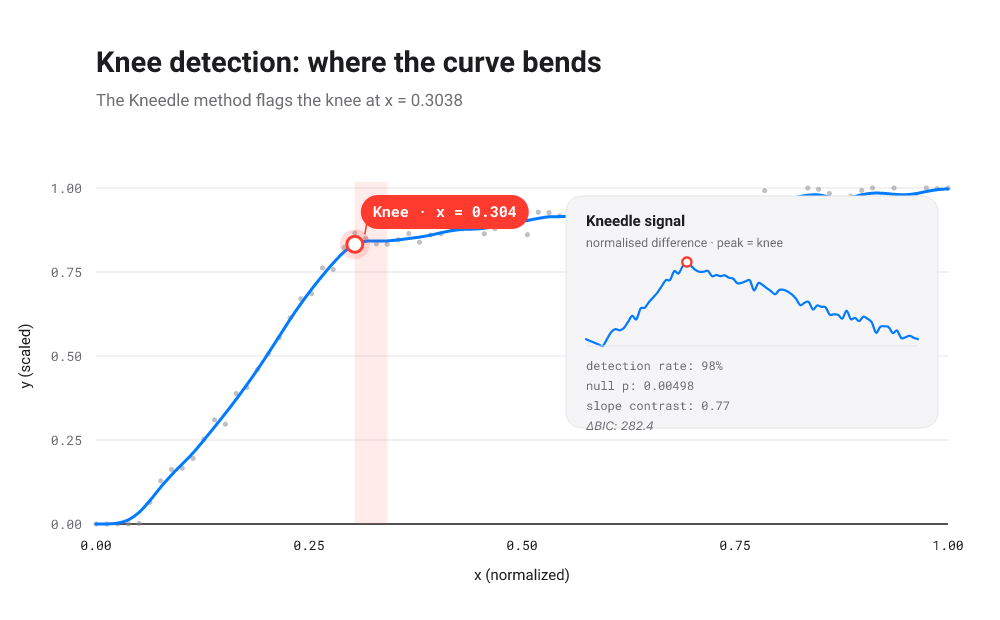
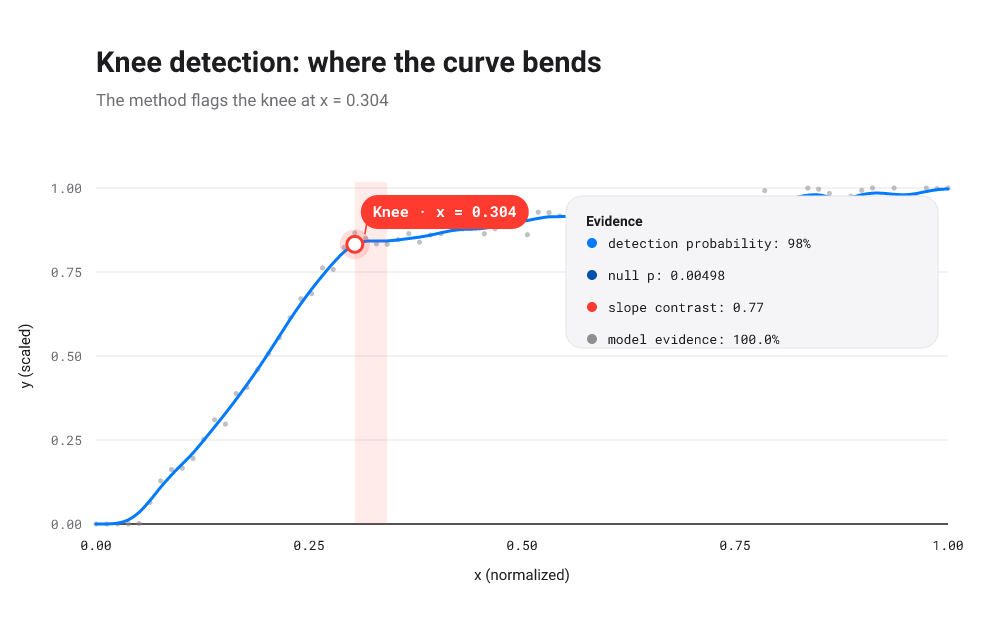
Diagnostic figure: replace Kneedle-inset chart with a compact evidence legend
- Drop the difference-curve mini-chart; show detection probability, null p,
  slope contrast, and BIC evidence as a plain labelled legend instead.
- BIC evidence is now a bounded posterior model probability (Kass & Raftery
  1995 Bayes-factor approximation), not a raw, unbounded delta-BIC in nats —
  a number like '99.9%' means the same thing regardless of curve length or
  noise scale, where '282.4' did not. ClearKnee.bic_improvement itself is
  unchanged (still raw nats, same public API field); only the figure and its
  prose changed.
- Minor wording: 'the Kneedle method' -> 'the method' in the figure subtitle,
  'detection rate' -> 'detection probability' throughout.
- Fixed a resvg font-fallback quirk where the Δ glyph rendered in an
  unintended italic face; renamed the BIC row label to avoid it entirely.

diff --git a/src/elbow_helper/plotting.py b/src/elbow_helper/plotting.py
@@ -13,9 +13,9 @@ arrays and the :class:`~elbow_helper.pipeline.ClearKnee` /
 only runtime dependencies stay ``numpy`` and ``os-helper``.
 
 The figure never shows a bare point estimate: the knee is paired with its
-90% bootstrap interval, the Kneedle difference curve that found it, and the
-supporting evidence (detection rate, null-model p-value, slope contrast,
-BIC improvement). When the evidence is too weak, the figure says so plainly
+90% bootstrap interval and the supporting evidence (detection probability,
+null-model p-value, slope contrast, and a BIC-derived posterior model
+probability) in a compact legend. When the evidence is too weak, the figure says so plainly
 — a greyed, dashed curve and a reason — instead of drawing a marker that
 implies more confidence than the data supports.
 
@@ -26,6 +26,7 @@ Warith Harchaoui, <warith.harchaoui@deraison.ai>
 
 from __future__ import annotations
 
+import math
 from pathlib import Path
 from typing import List, Optional, Sequence, Tuple
 from xml.sax.saxutils import escape
@@ -34,7 +35,6 @@ import numpy as np
 import os_helper as oh
 
 from .config import RobustKneeConfig
-from .kneedle import KneeLocator
 from .pipeline import ClearKnee, robust_knee
 from .preprocessing import Abstain, prepare_curve
 from .smoothing import smooth_curve
@@ -65,17 +65,16 @@ _FONT_MONO = "Roboto Mono, ui-monospace, SFMono-Regular, monospace"
 _STRINGS = {
     "en": {
         "title_clear": "Knee detection: where the curve bends",
-        "subtitle_clear": "The Kneedle method flags the knee at x = {x}",
+        "subtitle_clear": "The method flags the knee at x = {x}",
         "title_abstain": "No clear knee",
         "hint_abstain": "The evidence was too weak to report a point estimate.",
         "reason": "reason",
         "knee_pill": "Knee",
-        "inset_title": "Kneedle signal",
-        "inset_subtitle": "normalised difference · peak = knee",
-        "detection_rate": "detection rate",
+        "inset_title": "Evidence",
+        "detection_rate": "detection probability",
         "null_p": "null p",
         "slope_contrast": "slope contrast",
-        "bic": "ΔBIC",
+        "bic": "model evidence",
         "x_axis": "x (normalized)",
         "y_axis": "y (scaled)",
         "data_label": "data",
@@ -83,17 +82,16 @@ _STRINGS = {
     },
     "fr": {
         "title_clear": "Détection de coude : où la courbe plie",
-        "subtitle_clear": "La méthode Kneedle situe le coude à x = {x}",
+        "subtitle_clear": "La méthode situe le coude à x = {x}",
         "title_abstain": "Aucun coude net",
         "hint_abstain": "L'évidence était trop faible pour une estimation ponctuelle.",
         "reason": "raison",
         "knee_pill": "Coude",
-        "inset_title": "Signal Kneedle",
-        "inset_subtitle": "différence normalisée · pic = coude",
-        "detection_rate": "taux de détection",
+        "inset_title": "Preuves",
+        "detection_rate": "probabilité de détection",
         "null_p": "p (nul)",
         "slope_contrast": "contraste de pente",
-        "bic": "ΔBIC",
+        "bic": "évidence du modèle",
         "x_axis": "x (normalisé)",
         "y_axis": "y (mis à l'échelle)",
         "data_label": "données",
@@ -162,6 +160,57 @@ def _sy(y: float) -> float:
     return _PB - y * _PLOT_H
 
 
+def _bic_posterior_probability(bic_improvement: float) -> float:
+    """Convert a raw ΔBIC (nats) into a bounded, interpretable posterior probability.
+
+    ``bic_improvement`` is already ``n * ln(RSS_single/n) - n * ln(RSS_broken/n)
+    + k_diff * ln(n)`` (see :func:`elbow_helper.numerics.bic`) — the sample size
+    ``n`` and the extra-parameter penalty are already inside it, so dividing by
+    an arbitrary log base (10, 2, ...) would just rescale an already-composite,
+    unbounded number without fixing the real problem: a raw ΔBIC has no natural
+    ceiling, so "282.4" on its own says nothing about how much evidence that
+    actually is.
+
+    What does have a natural ceiling is the quantity ΔBIC approximates: twice
+    the log Bayes factor between the broken-line and single-line models
+    (Kass & Raftery, 1995, eq. 4 — the same approximation this project's
+    ``min_bic_improvement`` gate is calibrated against, see ``MATH-en.tex``
+    section 14). That gives an approximate Bayes factor
+    ``BF ≈ exp(bic_improvement / 2)`` — literally a likelihood ratio, since BIC
+    is built from ``-2 ln(L)`` — and, under equal priors, a posterior model
+    probability ``BF / (1 + BF)``, which is exactly the logistic/sigmoid of
+    ``bic_improvement / 2``. A probability is bounded in ``[0, 1]`` (maximum
+    entropy ``ln(2)`` nats at ``p = 0.5``, the point of total uncertainty
+    between the two models), so it reads the same way regardless of curve
+    length or noise scale: "99.9%" is unambiguous where "282.4" is not.
+
+    Parameters
+    ----------
+    bic_improvement : float
+        ``ClearKnee.bic_improvement``, in natural-log nats (``bic_single -
+        bic_broken``; positive favours the knee model).
+
+    Returns
+    -------
+    float
+        The approximate posterior probability, under equal priors, that the
+        broken-line (knee) model is correct, in ``[0, 1]``.
+
+    Examples
+    --------
+    >>> round(_bic_posterior_probability(0.0), 3)
+    0.5
+    >>> _bic_posterior_probability(20.0) > 0.999
+    True
+    """
+    # exp() overflows for very large bic_improvement; clip the odds' log
+    # rather than the probability so the result still saturates smoothly
+    # at 1.0 instead of raising OverflowError.
+    log_odds = min(bic_improvement / 2.0, 700.0)
+    odds = math.exp(log_odds)
+    return odds / (1.0 + odds)
+
+
 def render_svg(
     x,
     y=None,
@@ -188,7 +237,7 @@ def render_svg(
     -------
     str
         A complete SVG document: the curve with its knee (or an honest
-        abstention state) and the Kneedle evidence that produced it.
+        abstention state) and the evidence that backs it.
     """
     strings = _strings(language)
     config = config or RobustKneeConfig()
@@ -209,7 +258,7 @@ def render_svg(
     p: List[str] = []
     if isinstance(result, ClearKnee) and prepared is not None:
         title_txt = strings["title_clear"]
-        subtitle_txt = strings["subtitle_clear"].format(x=f"{result.knee_x:.4g}")
+        subtitle_txt = strings["subtitle_clear"].format(x=f"{result.knee_x:.3g}")
     else:
         title_txt = strings["title_abstain"]
         reason = getattr(result, "reason", "unknown")
@@ -325,7 +374,7 @@ def render_svg(
             f'font-family="{_FONT_MONO}" font-size="15" font-weight="700" '
             f'fill="{_BG}">{escape(call_txt)}</text>'
         )
-        _emit_inset(p, prepared, result, inferred_curve, inferred_direction, strings)
+        _emit_legend(p, result, strings)
     else:
         _emit_abstain_card(p, strings, getattr(result, "reason", None))
 
@@ -333,77 +382,46 @@ def render_svg(
     return "".join(p)
 
 
-def _emit_inset(
-    p: List[str],
-    prepared,
-    result: "ClearKnee",
-    curve: Optional[str],
-    direction: Optional[str],
-    strings: dict,
-) -> None:
-    """Append the Kneedle-signal inset card: difference curve + evidence lines."""
-    ix, iy, iw, ih = 566.0, 196.0, 372.0, 232.0
+def _emit_legend(p: List[str], result: "ClearKnee", strings: dict) -> None:
+    """Append a compact evidence legend: detection probability, null p, slope contrast, BIC gain.
+
+    A plain labelled-swatch legend rather than a chart-bearing card: each
+    row pairs a small dot (colour-keyed to the main curve/knee hues) with a
+    ``label: value`` line, so the four numbers that back the point estimate
+    read at a glance without a second, chart-within-a-chart panel to parse.
+
+    Parameters
+    ----------
+    p : list of str
+        The SVG fragment list being assembled; extended in place.
+    result : ClearKnee
+        The pipeline result carrying the four evidence values.
+    strings : dict
+        Chrome-text strings for the active language.
+    """
+    lx, ly, lw = 566.0, 196.0, 372.0
+    rows = [
+        (_CURVE, f'{strings["detection_rate"]}: {result.detection_rate:.0%}'),
+        (_CURVE_DEEP, f'{strings["null_p"]}: {result.null_p_value:.3g}'),
+        (_ACCENT, f'{strings["slope_contrast"]}: {result.slope_contrast:.2f}'),
+        (_MUTED, f'{strings["bic"]}: {_bic_posterior_probability(result.bic_improvement):.1%}'),
+    ]
+    row_h = 32.0
+    lh = 24.0 + row_h * len(rows)
     p.append(
-        f'<rect x="{ix:.0f}" y="{iy:.0f}" width="{iw:.0f}" height="{ih:.0f}" '
+        f'<rect x="{lx:.0f}" y="{ly:.0f}" width="{lw:.0f}" height="{lh:.0f}" '
         f'rx="16" fill="#F5F5F7" stroke="{_HAIR}" stroke-width="1"/>'
     )
     p.append(
-        f'<text x="{ix + 20:.0f}" y="{iy + 30:.0f}" font-size="15" '
+        f'<text x="{lx + 20:.0f}" y="{ly + 30:.0f}" font-size="14" '
         f'font-weight="700" fill="{_INK}">{escape(strings["inset_title"])}</text>'
     )
-    p.append(
-        f'<text x="{ix + 20:.0f}" y="{iy + 51:.0f}" font-size="12.5" '
-        f'fill="{_SUBINK}">{escape(strings["inset_subtitle"])}</text>'
-    )
-
-    w = result.smoothing_window
-    smoothed = smooth_curve(prepared.y_scaled, w)
-    kl = KneeLocator(
-        prepared.x_norm, smoothed, S=1.0, curve=curve, direction=direction, online=True,
-    )
-    diff = kl.y_difference
-    mx0, mx1 = ix + 20.0, ix + iw - 20.0
-    my0, my1 = iy + 66.0, iy + 150.0
-    dmin, dmax = float(np.min(diff)), float(np.max(diff))
-    dspan = (dmax - dmin) or 1.0
-
-    def msx(i: int) -> float:
-        return mx0 + i / (len(diff) - 1) * (mx1 - mx0)
-
-    def msy(v: float) -> float:
-        return my1 - (v - dmin) / dspan * (my1 - my0)
-
-    mpts = [(msx(i), msy(float(v))) for i, v in enumerate(diff)]
-    ln = [f'M{_fmt(mpts[0][0])},{_fmt(mpts[0][1])}']
-    ln.append(_catmull_rom(mpts))
-    p.append(
-        f'<path d="{"".join(ln)}" fill="none" stroke="{_CURVE}" '
-        f'stroke-width="2.2" stroke-linecap="round"/>'
-    )
-    p.append(
-        f'<line x1="{mx0:.1f}" y1="{my1:.1f}" x2="{mx1:.1f}" y2="{my1:.1f}" '
-        f'stroke="{_HAIR}" stroke-width="1"/>'
-    )
-    if kl.maxima_indices.size:
-        peak_i = int(kl.maxima_indices[np.argmax(kl.y_difference[kl.maxima_indices])])
-        peak_x, peak_y = mpts[peak_i]
+    for i, (colour, line) in enumerate(rows):
+        row_y = ly + 52 + i * row_h
+        p.append(f'<circle cx="{lx + 26:.1f}" cy="{row_y - 5:.1f}" r="5" fill="{colour}"/>')
         p.append(
-            f'<circle cx="{peak_x:.1f}" cy="{peak_y:.1f}" r="4.6" fill="{_BG}" '
-            f'stroke="{_ACCENT}" stroke-width="2.4"/>'
-        )
-
-    # Evidence lines: detection rate, null p-value, slope contrast, BIC.
-    lines = [
-        f'{strings["detection_rate"]}: {result.detection_rate:.0%}',
-        f'{strings["null_p"]}: {result.null_p_value:.3g}',
-        f'{strings["slope_contrast"]}: {result.slope_contrast:.2f}',
-        f'{strings["bic"]}: {result.bic_improvement:.1f}',
-    ]
-    for i, line in enumerate(lines):
-        p.append(
-            f'<text x="{mx0:.1f}" y="{my1 + 24 + i * 20:.1f}" '
-            f'font-family="{_FONT_MONO}" font-size="12" fill="{_SUBINK}">'
-            f'{escape(line)}</text>'
+            f'<text x="{lx + 42:.1f}" y="{row_y:.1f}" font-family="{_FONT_MONO}" '
+            f'font-size="13" fill="{_INK}">{escape(line)}</text>'
         )
 
 

diff --git a/LISEZ-MOI.md b/LISEZ-MOI.md
@@ -106,9 +106,9 @@ from elbow_helper.plotting import plot_diagnostics
 plot_diagnostics(x, y, curve="concave", direction="increasing", out="diag.svg", language="fr")
 ```
 
-![Figure de diagnostic : une courbe qui monte puis s'aplatit, avec le coude repéré et sa bande de confiance à 90 % en surbrillance, à côté d'un encart montrant la courbe de différence Kneedle qui l'a trouvé, avec le taux de détection, la p-value du modèle nul, le contraste de pente et le ΔBIC en pièces à l'appui.](assets/diagnostics.svg)
+![Figure de diagnostic : une courbe qui monte puis s'aplatit, avec le coude repéré et sa bande de confiance à 90 % en surbrillance, à côté d'une légende compacte avec la probabilité de détection, la p-value du modèle nul, le contraste de pente et une probabilité a posteriori dérivée du BIC.](assets/diagnostics.svg)
 
-Le SVG est écrit à la main, sans matplotlib et sans rien à installer en plus : le diagnostic fait partie du cœur du paquet. La courbe et son coude repéré voisinent avec la courbe de différence Kneedle qui l'a localisé, si bien qu'on voit la méthode autant que le résultat, à côté du taux de détection, de la p-value du modèle nul, du contraste de pente et de l'amélioration du BIC qui étayent l'estimation. Quand les preuves sont trop faibles, la figure bascule dans un état d'abstention honnête plutôt que d'afficher un résultat trompeur : une courbe grisée en pointillés et la raison, jamais un marqueur qui laisserait croire à plus de confiance que les données n'en autorisent.
+Le SVG est écrit à la main, sans matplotlib et sans rien à installer en plus : le diagnostic fait partie du cœur du paquet. La courbe et son coude repéré voisinent avec une légende compacte : la probabilité de détection, la p-value du modèle nul, le contraste de pente et une probabilité a posteriori dérivée du BIC (les chances, sous l'approximation du facteur de Bayes de Kass et Raftery, que le modèle à coude soit le bon) qui étayent l'estimation. Quand les preuves sont trop faibles, la figure bascule dans un état d'abstention honnête plutôt que d'afficher un résultat trompeur : une courbe grisée en pointillés et la raison, jamais un marqueur qui laisserait croire à plus de confiance que les données n'en autorisent.
 
 ## Limites
 

diff --git a/README.md b/README.md
@@ -106,9 +106,9 @@ from elbow_helper.plotting import plot_diagnostics
 plot_diagnostics(x, y, curve="concave", direction="increasing", out="diag.svg")
 ```
 
-![Diagnostic figure: a curve rising then flattening, with the located knee marked and its 90% confidence band shaded, alongside an inset panel showing the Kneedle difference curve that found it, with detection rate, null-model p-value, slope contrast and ΔBIC as supporting evidence.](assets/diagnostics.svg)
+![Diagnostic figure: a curve rising then flattening, with the located knee marked and its 90% confidence band shaded, next to a compact evidence legend with detection probability, null-model p-value, slope contrast and a BIC-derived posterior model probability.](assets/diagnostics.svg)
 
-Hand-authored SVG, no matplotlib, no extra to install: the diagnostic is a core feature. The curve and its located knee sit next to the Kneedle difference curve that found it, so the reader sees the method as well as the result, next to the detection rate, the null-model p-value, the slope contrast and the BIC improvement that back the point estimate. When the evidence is too weak, the figure switches to an honest abstention state instead: a greyed, dashed curve and the reason, never a marker implying more confidence than the data supports. Pass `language="fr"` for the French chrome text.
+Hand-authored SVG, no matplotlib, no extra to install: the diagnostic is a core feature. The curve and its located knee sit next to a compact evidence legend: the detection probability, the null-model p-value, the slope contrast and a BIC-derived posterior probability (the odds, under Kass & Raftery's Bayes-factor approximation, that the knee model is correct) that back the point estimate. When the evidence is too weak, the figure switches to an honest abstention state instead: a greyed, dashed curve and the reason, never a marker implying more confidence than the data supports. Pass `language="fr"` for the French chrome text.
 
 ## Limitations
 

diff --git a/CHANGELOG.md b/CHANGELOG.md
@@ -29,10 +29,17 @@ development.
   **core** feature, nothing extra to install. The new figure shows the curve
   with the located knee and its 90% CI band (or an honest greyed/dashed
   abstention state with the reason, when the evidence is too weak) next to a
-  Kneedle-signal inset with the difference curve and its supporting evidence
-  (detection rate, null-model p-value, slope contrast, ΔBIC). Supports
-  `language="fr"`. `examples/diagnostic_plot.py` and the README/LISEZ-MOI.md
-  Diagnostics sections updated to match, with a real generated figure
+  compact evidence legend: detection probability, null-model p-value, slope
+  contrast, and a BIC-derived posterior model probability. That last number
+  is not the raw `bic_improvement` nats — a raw ΔBIC has no natural
+  ceiling, so it is converted through Kass and Raftery's (1995) Bayes-factor
+  approximation (`BF ~= exp(bic_improvement / 2)`, posterior probability
+  `BF / (1 + BF)`) into a bounded [0, 1] reading, e.g. "99.9%", that means
+  the same thing regardless of curve length or noise scale
+  (`ClearKnee.bic_improvement` itself is untouched, still raw nats, still
+  the same public API field). Supports `language="fr"`.
+  `examples/diagnostic_plot.py` and the README/LISEZ-MOI.md Diagnostics
+  sections updated to match, with a real generated figure
   (`assets/diagnostics.svg`) embedded in both.
 - **`MATH-en.md` / `MATH-fr.md` replaced by `MATH-en.tex` / `MATH-fr.tex`** —
   the mathematics writeup is now native LaTeX (`amsmath`, `natbib` against
